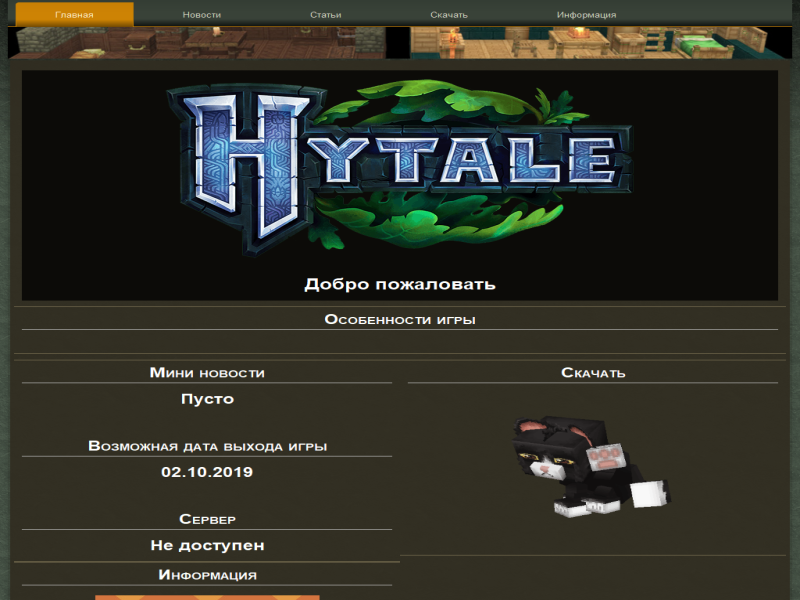
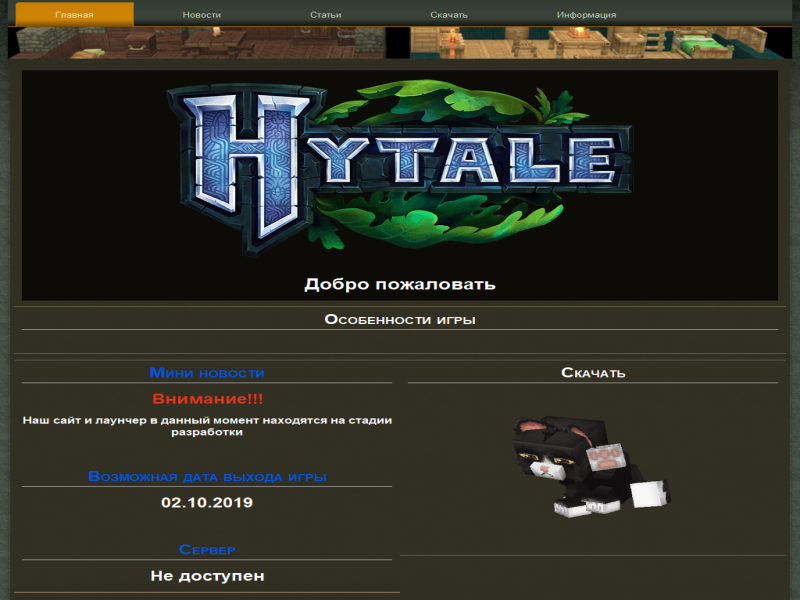
Обновление сайта

Changed region(s): [[0.0312, 0.66, 0.5, 1.0], [0.1875, 0.6, 0.3438, 0.63]]

diff --git a/index.html b/index.html
@@ -52,7 +52,7 @@
 <div class="art-content-layout layout-item-1">
     <div class="art-content-layout-row">
     <div class="art-layout-cell layout-item-2" style="width: 100%" >
-        <p style="text-align: center;"><img width="600" height="325" alt="" class="art-lightbox" src="images/logo.png" style="border-top-width: 0px; border-right-width: 0px; border-bottom-width: 0px; border-left-width: 0px; "></p>
+        <p style="text-align: center;"><img width="600" height="325" alt="" class="art-lightbox" src="images/logo.png" style="border-top-width: 0px; border-right-width: 0px; border-bottom-width: 0px; border-left-width: 0px;"></p>
         <p style="text-align: center;"><span style="font-weight: bold; font-size: 26px; color: #FFFFFF;">Добро пожаловать</span></p>
         <p>         </p>
         <p>     </p>
@@ -74,17 +74,18 @@
 <div class="art-content-layout layout-item-4">
     <div class="art-content-layout-row">
     <div class="art-layout-cell layout-item-5" style="width: 33%" >
-        <h3 style="padding-bottom: 5px; border-bottom-width: 1px; border-bottom-style: solid; border-bottom-color: rgb(189, 189, 189);"><span style="color: rgb(255, 255, 255); font-size: 24px; font-weight: bold;">Мини новости</span><br></h3>
-        <p style="text-align: center;"><span style="color: rgb(255, 255, 255); font-size: 24px; font-weight: bold;">Пусто</span></p>
+        <h3 style="padding-bottom: 5px; border-bottom-width: 1px; border-bottom-style: solid; border-bottom-color: rgb(189, 189, 189);"><span style="font-size: 24px; font-weight: bold; color: rgb(0, 84, 229);">Мини новости</span></h3>
+        <p style="text-align: center;"><span style="font-size: 24px; font-weight: bold; color: #E2341D;">Внимание!!!</span></p>
+        <p style="text-align: center;"><span style="color: rgb(255, 255, 255); font-weight: bold; font-size: 16px;">Наш сайт и лаунчер в данный момент находятся на стадии разработки</span></p>
         <p style="text-align: center;"><span style="color: rgb(255, 255, 255); font-size: 24px; font-weight: bold;"><br></span></p>
-        <h3 style="padding-bottom: 5px; border-bottom-width: 1px; border-bottom-style: solid; border-bottom-color: rgb(189, 189, 189);"><span style="color: rgb(255, 255, 255); font-size: 24px; font-weight: bold;">Возможная дата выхода игры</span></h3>
+        <h3 style="padding-bottom: 5px; border-bottom-width: 1px; border-bottom-style: solid; border-bottom-color: rgb(189, 189, 189);"><span style="font-size: 24px; font-weight: bold; color: #0054E5;">Возможная дата выхода игры</span></h3>
         <p style="text-align: center;"><span style="color: rgb(255, 255, 255); font-size: 24px; font-weight: bold;">02.10.2019</span></p>
         <p style="text-align: center;"><span style="color: rgb(255, 255, 255); font-size: 24px; font-weight: bold;"><br></span></p>
-        <h3 style="padding-bottom: 5px; border-bottom-width: 1px; border-bottom-style: solid; border-bottom-color: rgb(189, 189, 189);"><span style="color: rgb(255, 255, 255); font-size: 24px; font-weight: bold;">Сервер</span></h3>
+        <h3 style="padding-bottom: 5px; border-bottom-width: 1px; border-bottom-style: solid; border-bottom-color: rgb(189, 189, 189);"><span style="font-size: 24px; font-weight: bold; color: rgb(0, 84, 229);">Сервер</span></h3>
         <p style="text-align: center;"><span style="color: rgb(255, 255, 255); font-size: 24px; font-weight: bold;">Не доступен</span></p>
     </div><div class="art-layout-cell layout-item-5" style="width: 34%" >
         <h3 style="padding-bottom: 5px; border-bottom-width: 1px; border-bottom-style: solid; border-bottom-color: rgb(189, 189, 189);"><span style="color: rgb(255, 255, 255); font-size: 24px; font-weight: bold;">Скачать</span></h3>
-        <p style="text-align: center;"><a href="down.html"><img width="296" height="256" alt="" src="images/5c116cf1a8abd90012df93f2_fungif_3___cute_cat.gif" style="border-top-width: 0px; border-right-width: 0px; border-bottom-width: 0px; border-left-width: 0px;" class=""></a><br></p>
+        <p style="text-align: center;"><a href="down.html"><img width="296" height="256" alt="" src="images/5c116cf1a8abd90012df93f2_fungif_3___cute_cat.gif" style="border-top-width: 0px; border-right-width: 0px; border-bottom-width: 0px; border-left-width: 0px; " class=""></a><br></p>
     </div><div class="art-layout-cell layout-item-5" style="width: 33%" >
         <h3 style="padding-bottom: 5px; border-bottom-width: 1px; border-bottom-style: solid; border-bottom-color: rgb(189, 189, 189);"><span style="color: rgb(255, 255, 255); font-size: 24px; font-weight: bold;">Информация</span></h3>
         <p style="text-align: center;"><a href="info.html"><img width="287" height="287" alt="" src="images/unnamed-2.jpg" style="border-top-width: 0px; border-right-width: 0px; border-bottom-width: 0px; border-left-width: 0px;" class=""></a><br></p>
